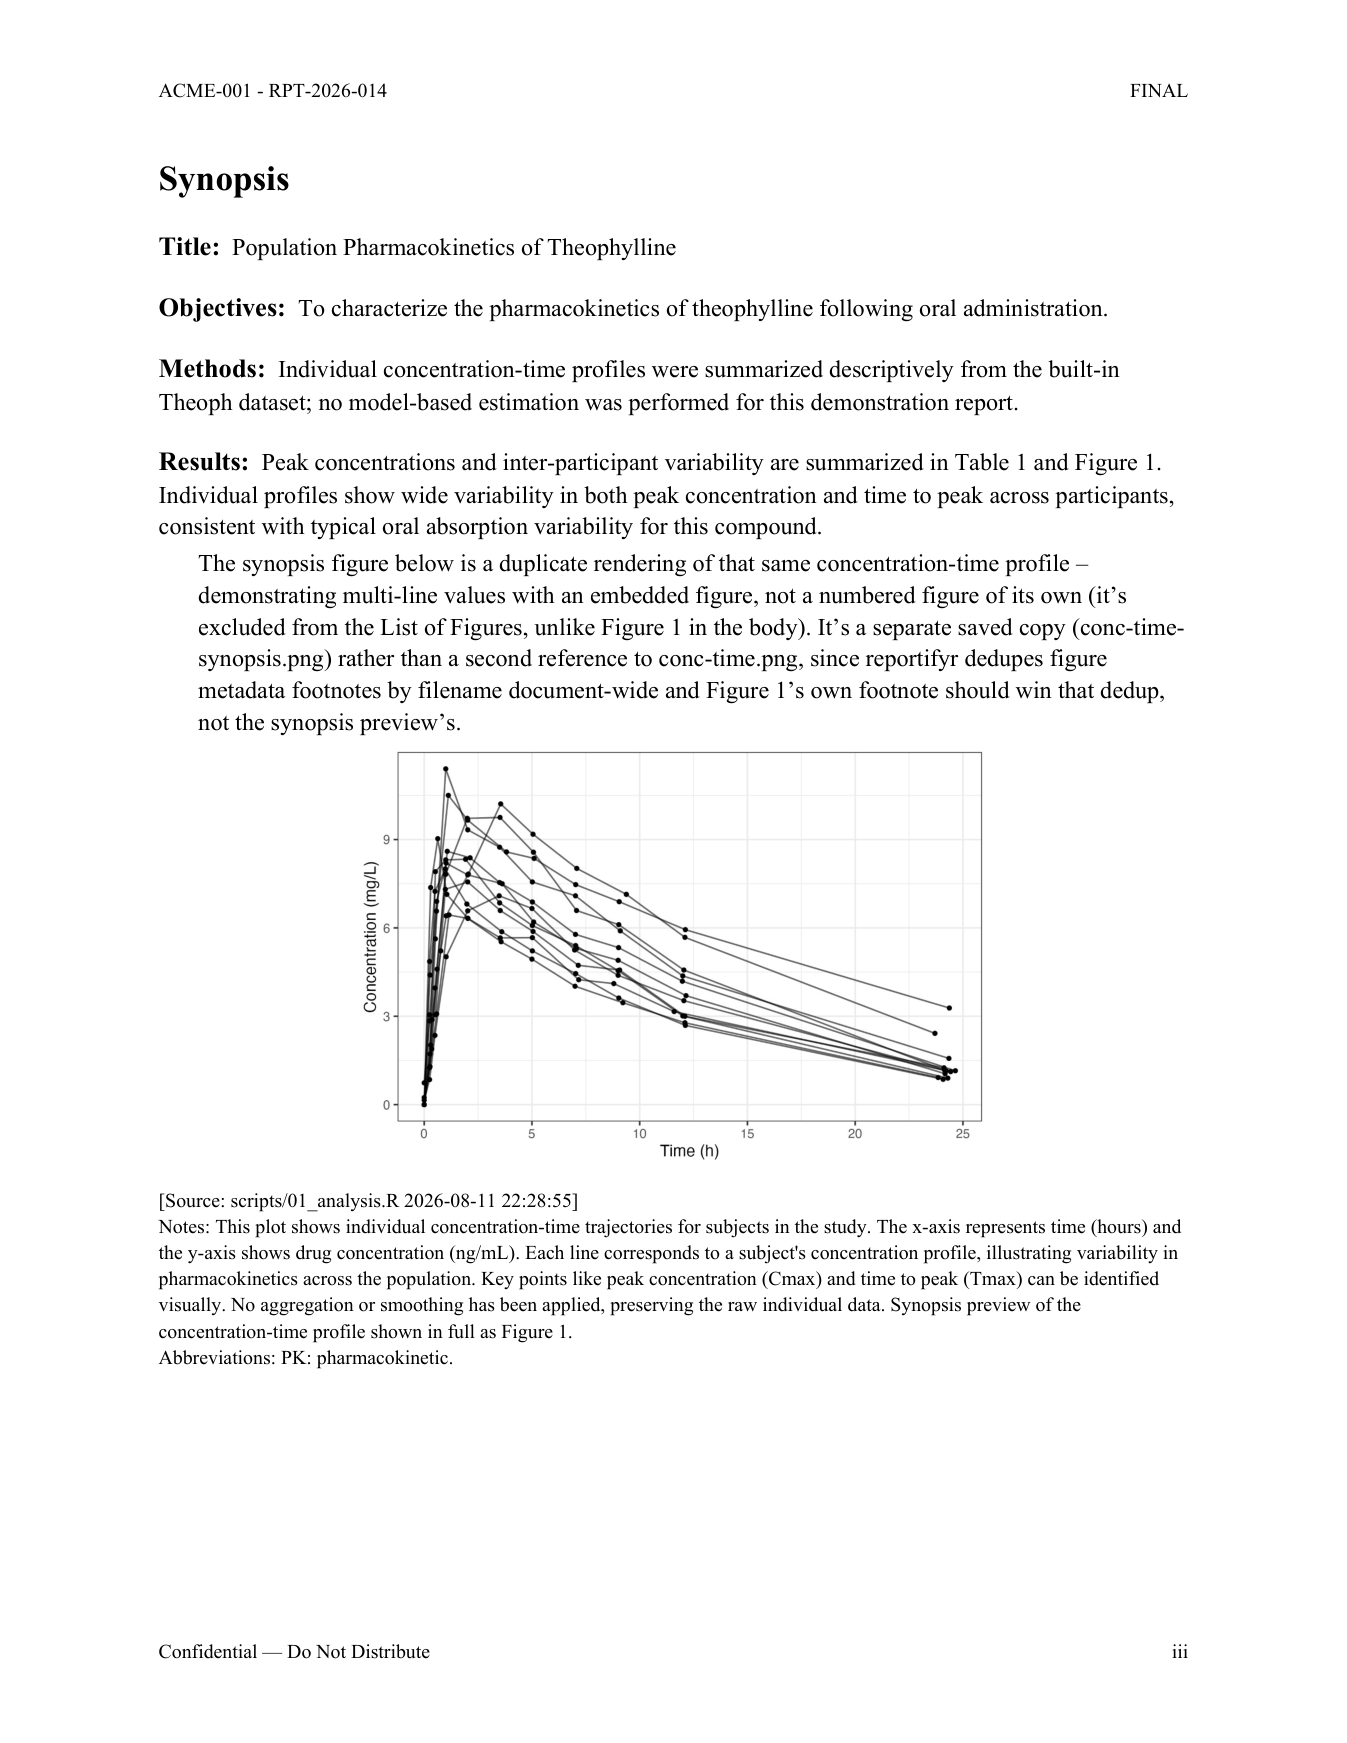
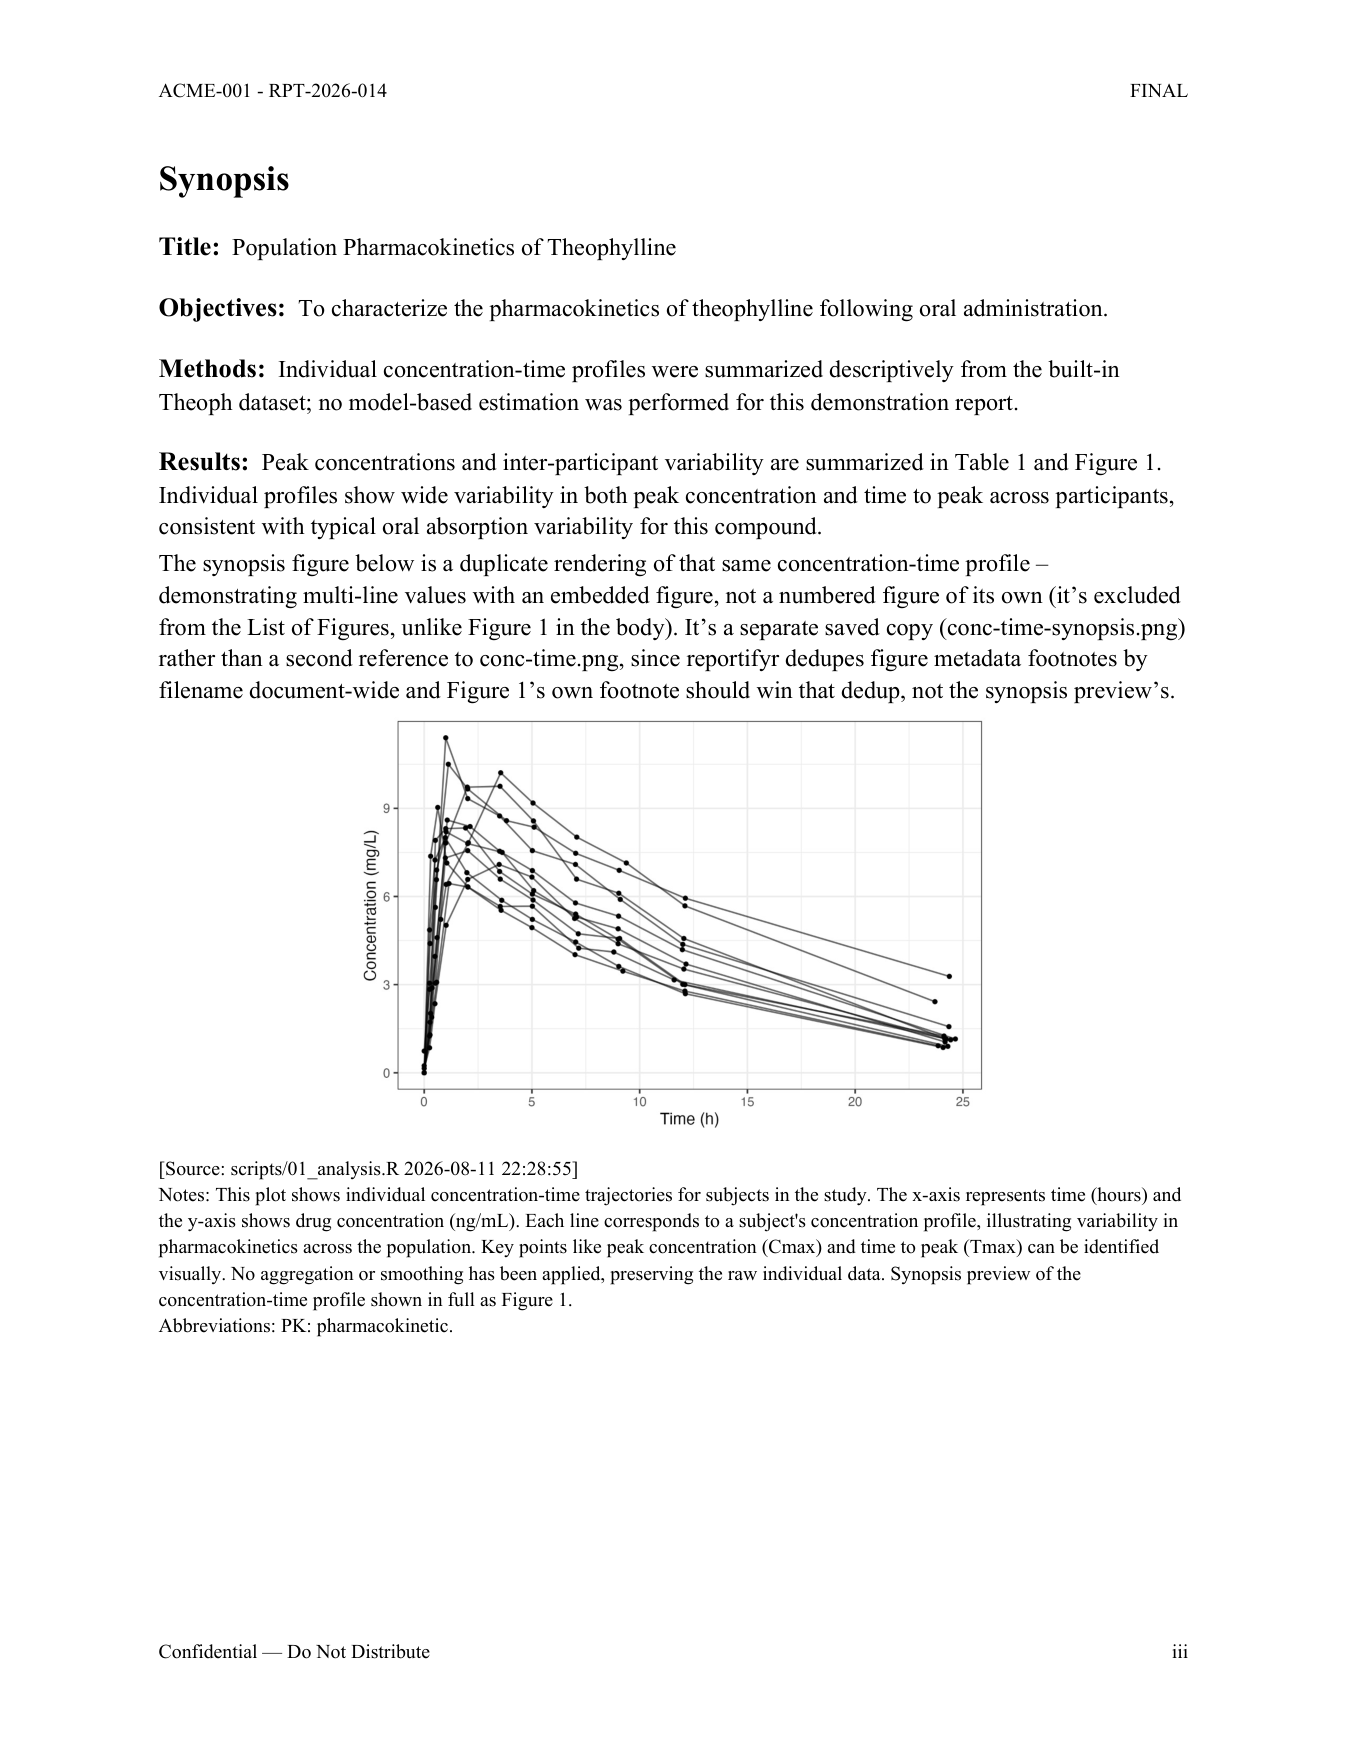
inline: never indent -- indentation is a definition-list trait only
synopsis-style: inline's continuation lines (after a merged first line,
or after the standalone fallback label) were indented, reusing
definition-list's exact shape for that part. Indentation should only
ever signal definition-list; inline's own lines -- merged or not --
now stay flush, via value_paragraph's indent argument (true only from
definition-list's own call site, false from both of inline's).

Updated the corresponding checks in scripts/test_synopsis_styles.py
and examples/demo-report/smoke_test.py to assert the w:ind left=0
override is present (flush) rather than absent (indented), and
regenerated docs/assets/img/demo-report-synopsis.png.

Changed region(s): [[0.1247, 0.3098, 0.8731, 0.8055], [0.2494, 0.4957, 0.2806, 0.5886]]

diff --git a/scripts/test_synopsis_styles.py b/scripts/test_synopsis_styles.py
@@ -120,7 +120,8 @@ def _check_inline(work_dir: Path, checks: list[tuple[str, bool]]) -> None:
     # a picture, so the label stands alone, but still bold/larger/colon
     # via inline_label_only_paragraph, not plain_label_paragraph's
     # unstyled look; its second line ("Caption after the image.") still
-    # follows underneath, indented, same as definition-list's value.
+    # follows underneath, flush -- indentation is a definition-list
+    # trait only, inline never indents.
     figure_label_idx = next((i for i, t in enumerate(texts) if t == "Figure:"), None)
     checks.append(("inline: a row whose first line is an image falls back to a standalone label (Figure)", figure_label_idx is not None))
 
@@ -133,7 +134,12 @@ def _check_inline(work_dir: Path, checks: list[tuple[str, bool]]) -> None:
         ppr = paragraphs[caption_idx].find(qn("w:pPr"))
         if ppr is not None:
             caption_ind = ppr.find(qn("w:ind"))
-    checks.append(("inline: a line after the fallback label has no w:ind override (inherits the indented style)", caption_idx is not None and caption_ind is None))
+    checks.append(
+        (
+            "inline: a line after the fallback label is flush (w:ind left=0 override present, not inherited indent)",
+            caption_ind is not None and caption_ind.get(qn("w:left")) == "0",
+        )
+    )
 
 
 def _check_table(work_dir: Path, checks: list[tuple[str, bool]]) -> None:

diff --git a/examples/demo-report/smoke_test.py b/examples/demo-report/smoke_test.py
@@ -351,8 +351,8 @@ def main() -> int:
     )
 
     # The row's second (continuation) line still follows underneath,
-    # indented the same as definition-list's value -- no repeated label,
-    # no w:ind override.
+    # flush -- no repeated label, no indent (indentation is a
+    # definition-list trait only; inline never indents).
     continuation_ind = None
     if results_merge_idx is not None:
         continuation_ppr = body_paragraphs[results_merge_idx + 1].find(qn("w:pPr"))
@@ -360,8 +360,8 @@ def main() -> int:
             continuation_ind = continuation_ppr.find(qn("w:ind"))
     checks.append(
         (
-            "Results' second value line follows underneath with no w:ind override (inherits the indented 'Synopsis Value' style)",
-            continuation_ind is None,
+            "Results' second value line follows underneath flush (w:ind left=0 override present, not inherited indent)",
+            continuation_ind is not None and continuation_ind.get(qn("w:left")) == "0",
         )
     )
 
